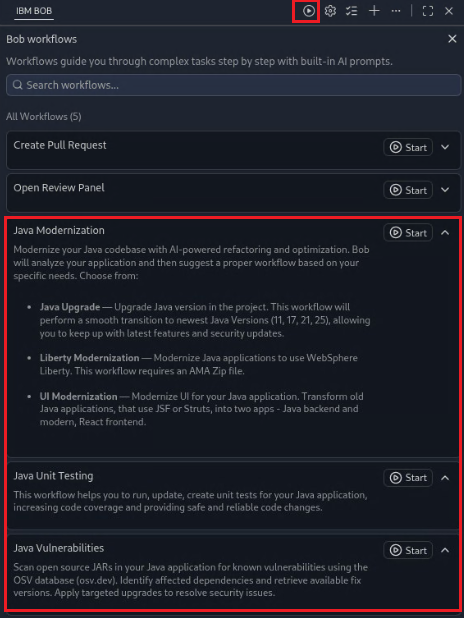
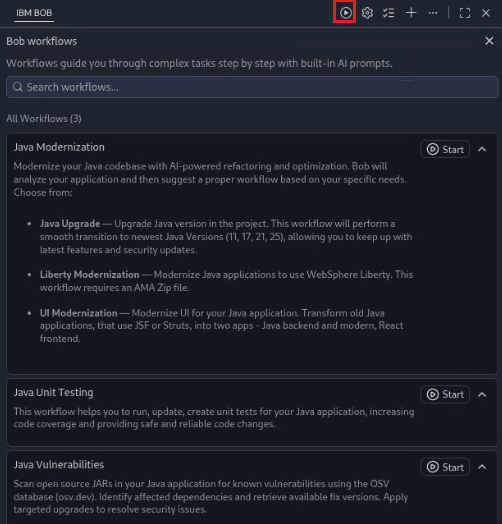
Update lab

Changed region(s): [[0.0, 0.2137, 0.9957, 1.0], [0.0, 0.0, 1.0, 0.2443], [0.8448, 0.855, 0.9353, 0.916]]

diff --git a/README.md b/README.md
@@ -1042,58 +1042,92 @@ Now you will use AMA Dev Tools to do the required code changes. AMA Dev Tools wi
         <kbd>![Bob_premium_user_Workflows.png](./images/media/Bob_premium_user_Workflows.png)</kbd>
 
 
+
 ### 7.2 Modernize modresorts to WebSphere Liberty using IBM Bob
 In the section we will outline how AMA Dev Tools can help with the modernization to Liberty.
 
-1. Start the modernization wizard
+1. Start the Java Modernization wizard
 
-    1. Switch to the **Explorer**, right-click on **src** and select **Modernize Java Applications > Modernize to Liberty**
+    1. In the **Bob** panel, click on **Permissions** to see which activities IBM Bob is allowed to do without approval. Set the settings to **Read**.
+    This will allow you to better understand the workflow and decisions.
 
-        <kbd>![AMA_DevTools_ModernizeJavaApps.png](./images/media/AMA_DevTools_ModernizeJavaApps.png)</kbd>
+        <kbd>![Bob_Permissions.png](./images/media/Bob_Permissions.png)</kbd>
 
-    2. An introduction panel is displayed.
+
+    2. In the **Bob** panel, expand the Java Modernization workflow and click on **Start**.
+
+        <kbd>![Bob_Java_Modernization_Workflow_start.png](./images/media/Bob_Java_Modernization_Workflow_start.png)</kbd>
+
+    3. Open the twisties in the **Getting Started** section to get some background.
     
-        <kbd>![AMA_DevTools_ModernizeJavaApps2](./images/media/AMA_DevTools_ModernizeJavaApps2.png)</kbd>
+        <kbd>![Bob_Java_Modernization_Workflow_GettingStarted.png](./images/media/Bob_Java_Modernization_Workflow_GettingStarted.png)</kbd>
+
+        Finally click on **Continue**.
+
+2. Bob prepares the modernization
+
+    1. Bob has detected that the application uses Spring and offers to analyze the application for vulnerabilities. 
+    
+        <kbd>![Bob_Java_Modernization_Workflow_Vulnerabilities.png](./images/media/Bob_Java_Modernization_Workflow_Vulnerabilities.png)</kbd>
+
+        Click on **Approve once**.
+
+    2. Review the vulnerability results by expaning the twisties.
+    
+        <kbd>![Bob_Java_Modernization_Workflow_Vulnerabilities2.png](./images/media/Bob_Java_Modernization_Workflow_Vulnerabilities2.png)</kbd>
+
+        Click on **Approve once**.
+
+    3. Next Bob wants to perform an initial build of the application. 
+    
+        <kbd>![Bob_Java_Modernization_Workflow_InitialBuild.png](./images/media/Bob_Java_Modernization_Workflow_InitialBuild.png)</kbd>
+
+        Click on **Approve once**.
+
+    4. Bob offers different typos of application modernization. Select **Liberty Modernization** and select to **Disable Git Flow**.
+    
+        <kbd>![Bob_Java_Modernization_Workflow_ModernizationType.png](./images/media/Bob_Java_Modernization_Workflow_ModernizationType.png)</kbd>
+
+        Click on **Continue**.
+
+3. Upload and extract Migration plan
+
+    Bob wants to read the AMA migration plan to better understand the modernization target and identified issues. The modernization plan will help to do the modernization in a more deterministic way. 
+    1. Click on **Select File**
+
+        <kbd>![Bob_Java_Modernization_Workflow_Request_migrationplan.png](./images/media/Bob_Java_Modernization_Workflow_Request_migrationplan.png)</kbd>
+
+    2. Click on **Downloads**, then select the migration plan and click on  **Select File**
+
+        <kbd>![Bob_Java_Modernization_Workflow_Upload_migrationplan.png](./images/media/Bob_Java_Modernization_Workflow_Upload_migrationplan.png)</kbd>
+
+    3. Verify that the migration plan has been selected and click on  **Continue**
+
+        <kbd>![Bob_Java_Modernization_Workflow_Uploaded_migrationplan.png](./images/media/Bob_Java_Modernization_Workflow_Uploaded_migrationplan.png)</kbd>
+
+    4. Bob extracts the migration plan and wants to save the Liberty server configuration file server.xml as well as the Containerfile. Click on  **Approve once** for server.xml as well as for Containerfile.
+
+        <kbd>![Bob_Java_Modernization_Workflow_Extract_migrationplan.png](./images/media/Bob_Java_Modernization_Workflow_Extract_migrationplan.png)</kbd>
+
+        <kbd>![Bob_Java_Modernization_Workflow_Extract_migrationplan2.png](./images/media/Bob_Java_Modernization_Workflow_Extract_migrationplan2.png)</kbd>
+
+    5. Bob has analyzed the AMA reports and knows which issues have been identified. As  next step, IBM Bob wants to download the recipes for the automated fixes.
+    Before applying the fixes, let's take a look at the application as is.
+    DO NOT CLICK on Approve as 
+
+        <kbd>![Bob_Java_Modernization_Workflow_Analyze_AMA_reports.png](./images/media/Bob_Java_Modernization_Workflow_Analyze_AMA_reports.png)</kbd>
 
 
+4. Test the application on Liberty
 
-    2. Click on **Upload migration plan**
-
-        <kbd>![AMA_DevTools_Upload_Migrationplan](./images/media/AMA_DevTools_Upload_Migrationplan.png)</kbd>
-
-
-    3. Select the migration plan from the **Downloads** directory.
-
-        <kbd>![AMA_DevTools_Upload_Migrationplan2](./images/media/AMA_DevTools_Upload_Migrationplan2.png)</kbd>
-
-        Click on **Open**.
-
-    4. Keep the **server.xml** file selected and click on **Proceed**.
-
-        <kbd>![AMA_DevTools_Upload_Migrationplan3](./images/media/AMA_DevTools_Upload_Migrationplan3.png)</kbd>
-
-    5. AMA Dev Tools display the issues and for which of them automated fixes exist.
-
-        <kbd>![AMA_DevTools_Issues_Overview](./images/media/AMA_DevTools_Issues_Overview.png)</kbd>
-
-
-        As you can see, there are automated fix available for:
-        - **Use the default InitialContext JNDI properties**
-        - **Getting the server name on Liberty**
-        - **Avoid using the deprecated WSSecurityHelper revokeSSOCookies and getLTPACookieFromSSOToken methods**
-
-        
-
-2. Test the application on Liberty
-
-    As the tool does a static analysis, it cannot detect if the identified issues really need to be fixed or in unused code.
+    As the tool does a static analysis, it cannot detect if the identified issues really need to be fixed or are located in unused code.
     Therefore, before continuing with the modernization, let's try to run the application as is on Liberty.
 
-    1. Open a VS Code Terminal
+    1. Open a new terminal in Bob
 
-        <kbd>![VSCode_Open_Terminal](./images/media/VSCode_Open_Terminal.png)</kbd>
+        <kbd>![Bob_New_Terminal](./images/media/Bob_New_Terminal.png)</kbd>
 
-    2. Configure Liberty to use Java 8. This is done via the Liberty configuration file **server.env**.
+    2. Configure Liberty to use Java 8. This is done via the Liberty configuration file **server.env**. Copy the following commandinto the terminal
 
             cd ~/Student/modresorts-project
             echo "JAVA_HOME=/usr/lib/jvm/ibm-semeru-open-8-jdk" >> src/main/liberty/config/server.env
@@ -1152,6 +1186,25 @@ In the section we will outline how AMA Dev Tools can help with the modernization
 
         <kbd>![modresorts_TestAppOnLiberty4](./images/media/modresorts_TestAppOnLiberty4.png)</kbd>
 
+
+
+
+
+
+
+
+
+        <kbd>![Bob_Java_Modernization_Workflow_after_testing.png](./images/media/Bob_Java_Modernization_Workflow_after_testing.png)</kbd>
+
+
+
+
+        As you can see, there are automated fix available for:
+        - **Use the default InitialContext JNDI properties**
+        - **Getting the server name on Liberty**
+        - **Avoid using the deprecated WSSecurityHelper revokeSSOCookies and getLTPACookieFromSSOToken methods**
+
+        
 
 2. Continue with the modernization wizard
 
